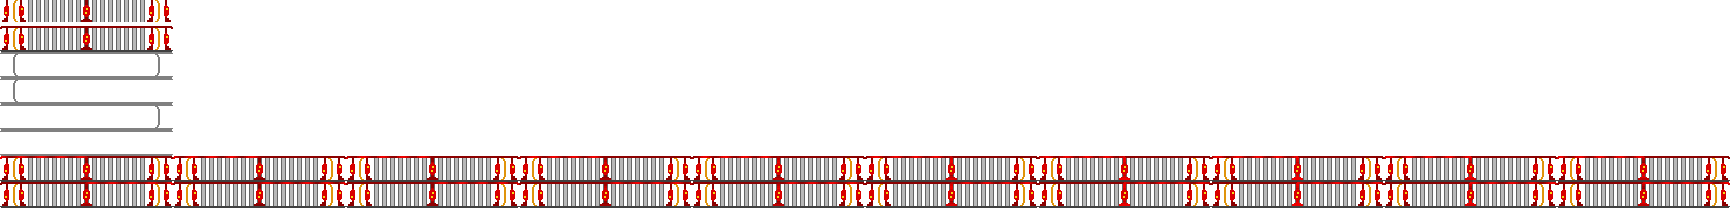
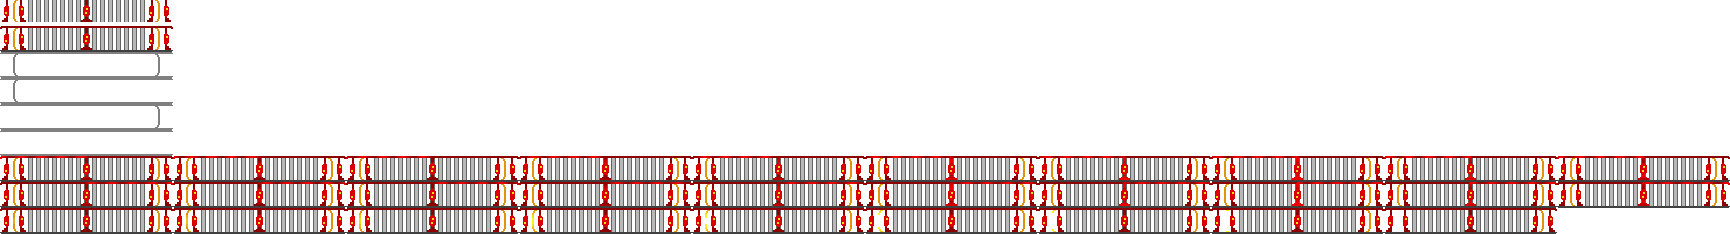
Tested the "ShieldOpenLeft" Action
A Delay of 5 ticks appears to be appropriate.

diff --git a/Clonk Objects/2021-12-09_1805 With Left Shield/Airlock.c4d/Script.c b/Clonk Objects/2021-12-09_1805 With Left Shield/Airlock.c4d/Script.c
@@ -1,3 +1,3 @@
 func Initialize() {
-    SetAction("PumpRight");
+    SetAction("ShieldOpenLeft");
 }
